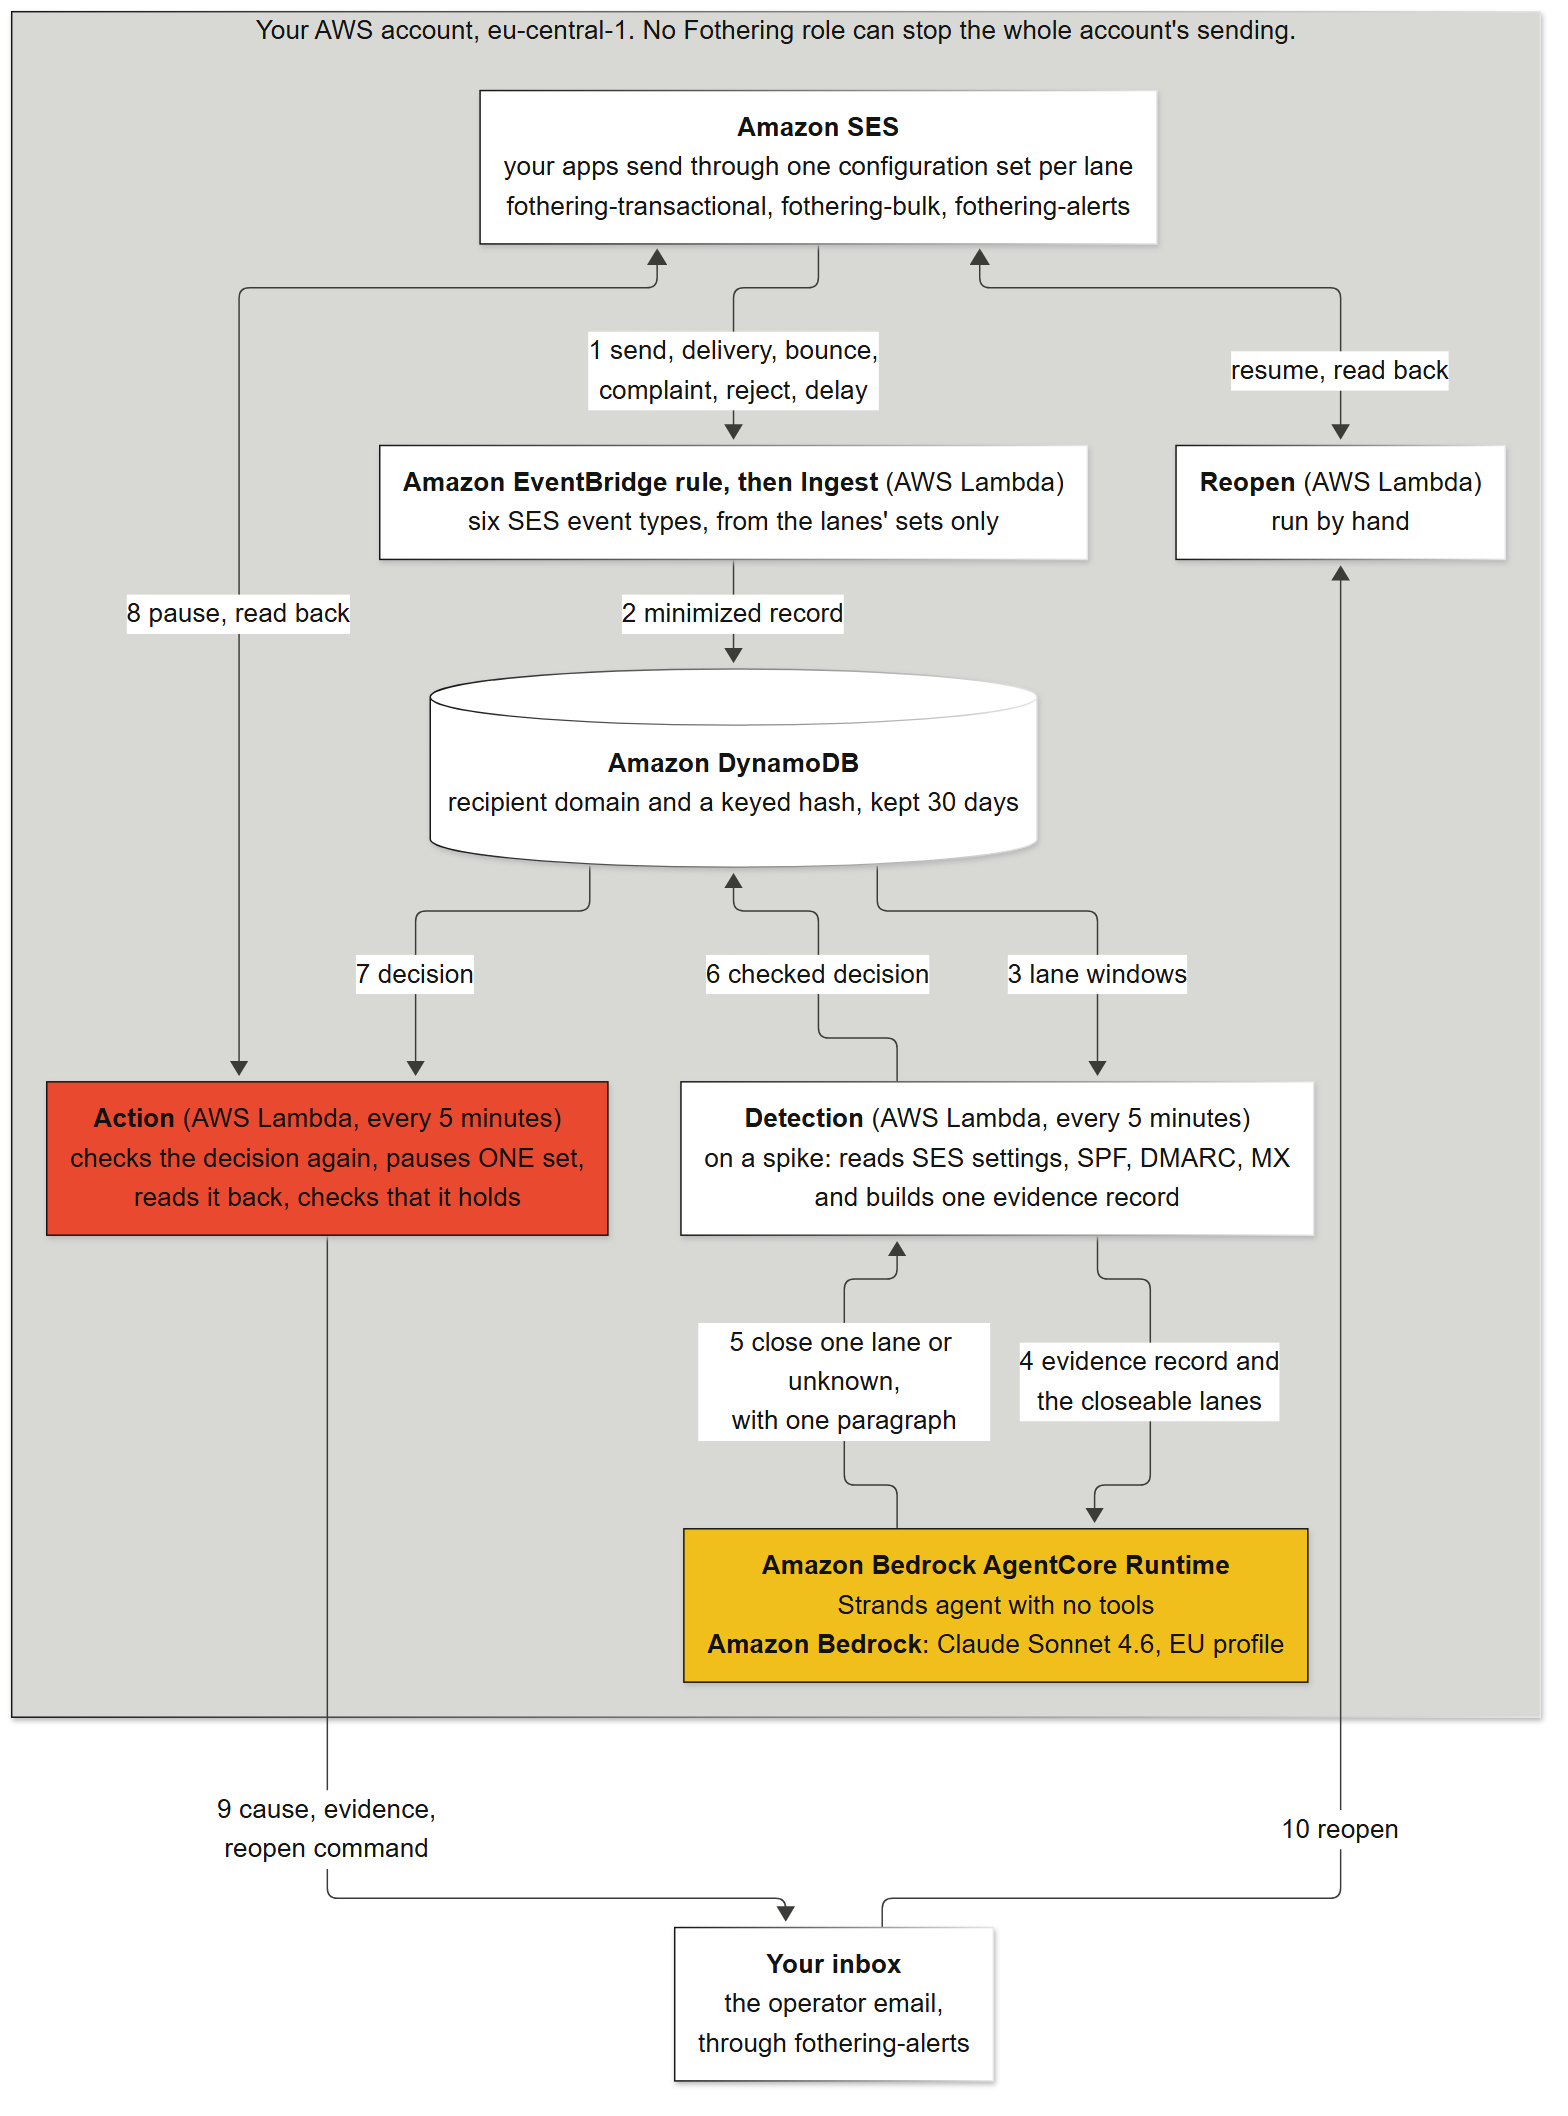
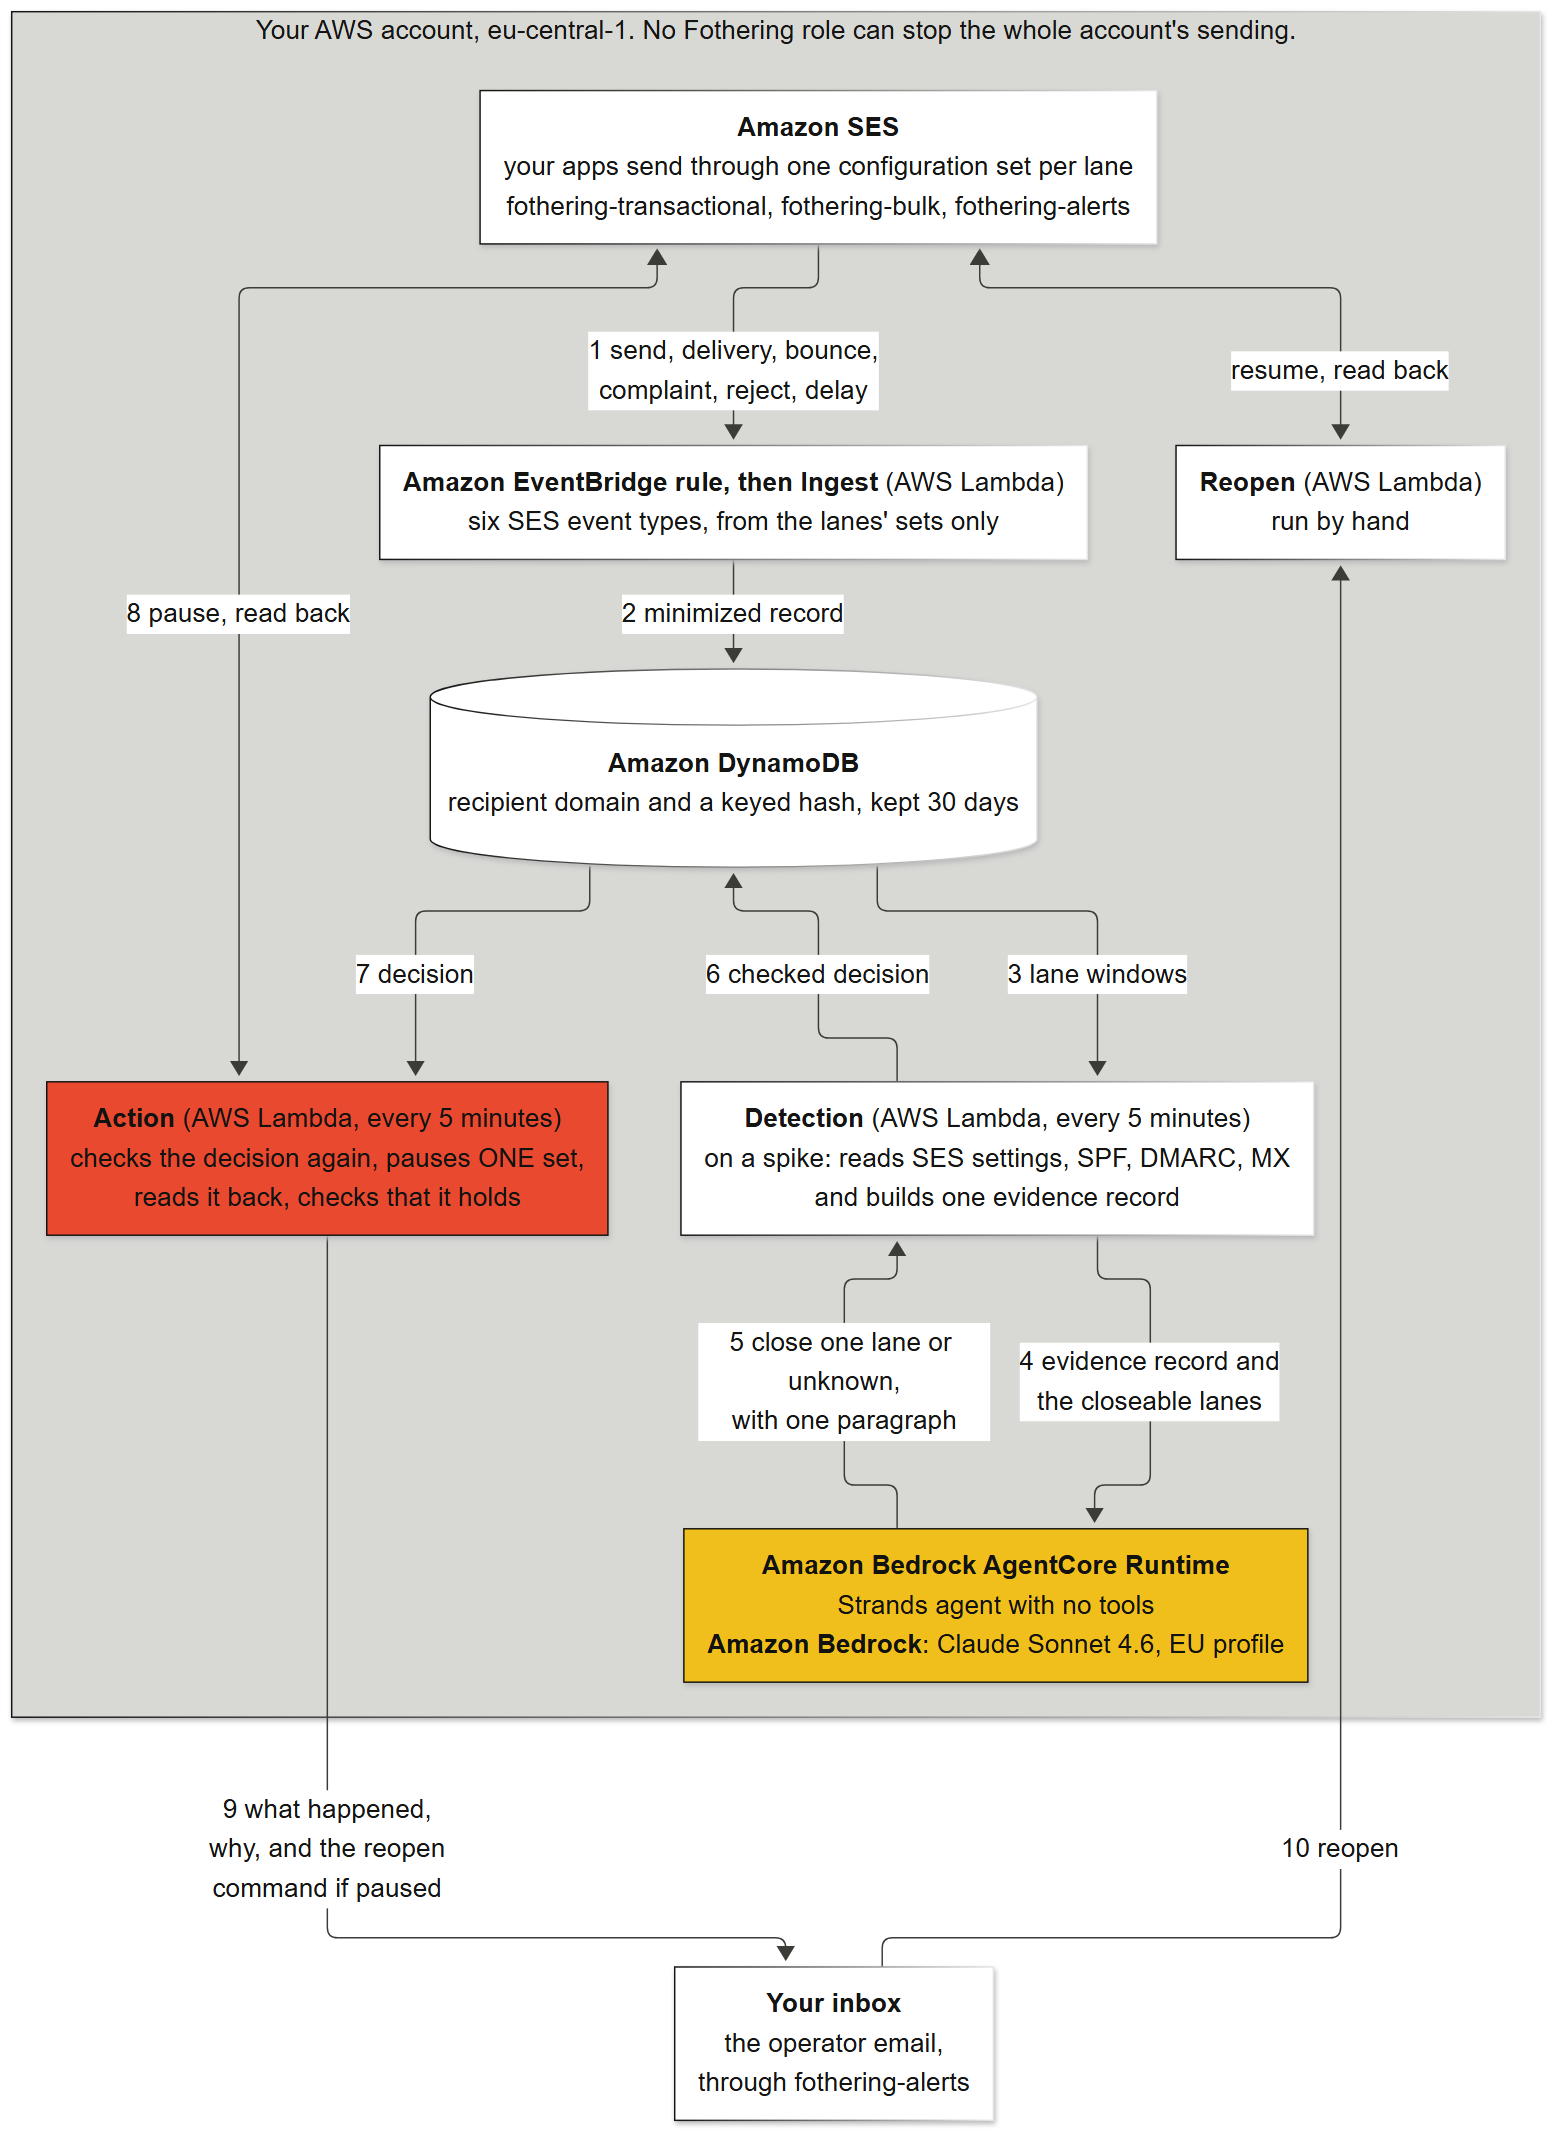
docs: describe the operator email when nothing was paused
The page and arrow 9 read as if every email confirms a pause and carries
the reopen command. An unknown answer, a reached cap or a refused close
sends an email that says nothing was paused, and a failed pause has
nothing to reopen. Step 1 now says the six event types are a
requirement Fothering checks, not a given.

diff --git a/docs/architecture.md b/docs/architecture.md
@@ -8,8 +8,9 @@ Everything runs in your own AWS account in `eu-central-1`, from the four CDK sta
 (`action-stack.ts`). The numbers below follow the arrows in the picture.
 
 1. Your apps send through Amazon SES, one configuration set per lane, each listed in `lanes.json`.
-   Each set publishes six event types to the EventBridge default bus: send, delivery, bounce,
-   complaint, reject and delivery delay. The stacks create no configuration set.
+   Each set needs an event destination on the EventBridge default bus that publishes six event
+   types: send, delivery, bounce, complaint, reject and delivery delay. Fothering never pauses a set
+   whose destination misses one. The stacks create no configuration set.
 2. A rule in `ingest-stack.ts` forwards those events, from the lanes' sets only, to the ingest
    function, which stores minimized records in DynamoDB: one per recipient for a send, delivery,
    bounce or delivery delay, one counting record plus one per complained recipient for a complaint,
@@ -34,8 +35,13 @@ Everything runs in your own AWS account in `eu-central-1`, from the four CDK sta
    waits out a one-minute hold, in which SES may still send what it had already accepted, and five
    minutes after that checks that nothing more was sent through the set. Its role may pause only the
    sets `lanes.json` lets the action close.
-9. It emails the operator through the `fothering-alerts` set: the cause with its evidence, what was
-   paused and when the read-back confirmed it, what stays open, and the command that reopens the lane.
+9. It emails the operator through the `fothering-alerts` set. After a pause that held, the email
+   gives the cause with its evidence, what was paused and when the read-back confirmed it, what
+   stays open, and the command that reopens the lane. A pause that could not be confirmed or did
+   not hold is reported as such, still with the reopen command. A pause that failed leaves nothing
+   to reopen, so that email has none. When nothing was paused (the agent answered unknown, a cap was
+   reached, or the fresh checks refused the close), the email says why, with what Fothering saw and
+   found, and has no reopen command.
 10. The operator runs the reopen function by hand ([reopen-a-lane.md](reopen-a-lane.md)). It turns
     sending back on for a set Fothering paused and reads the setting back.
 
